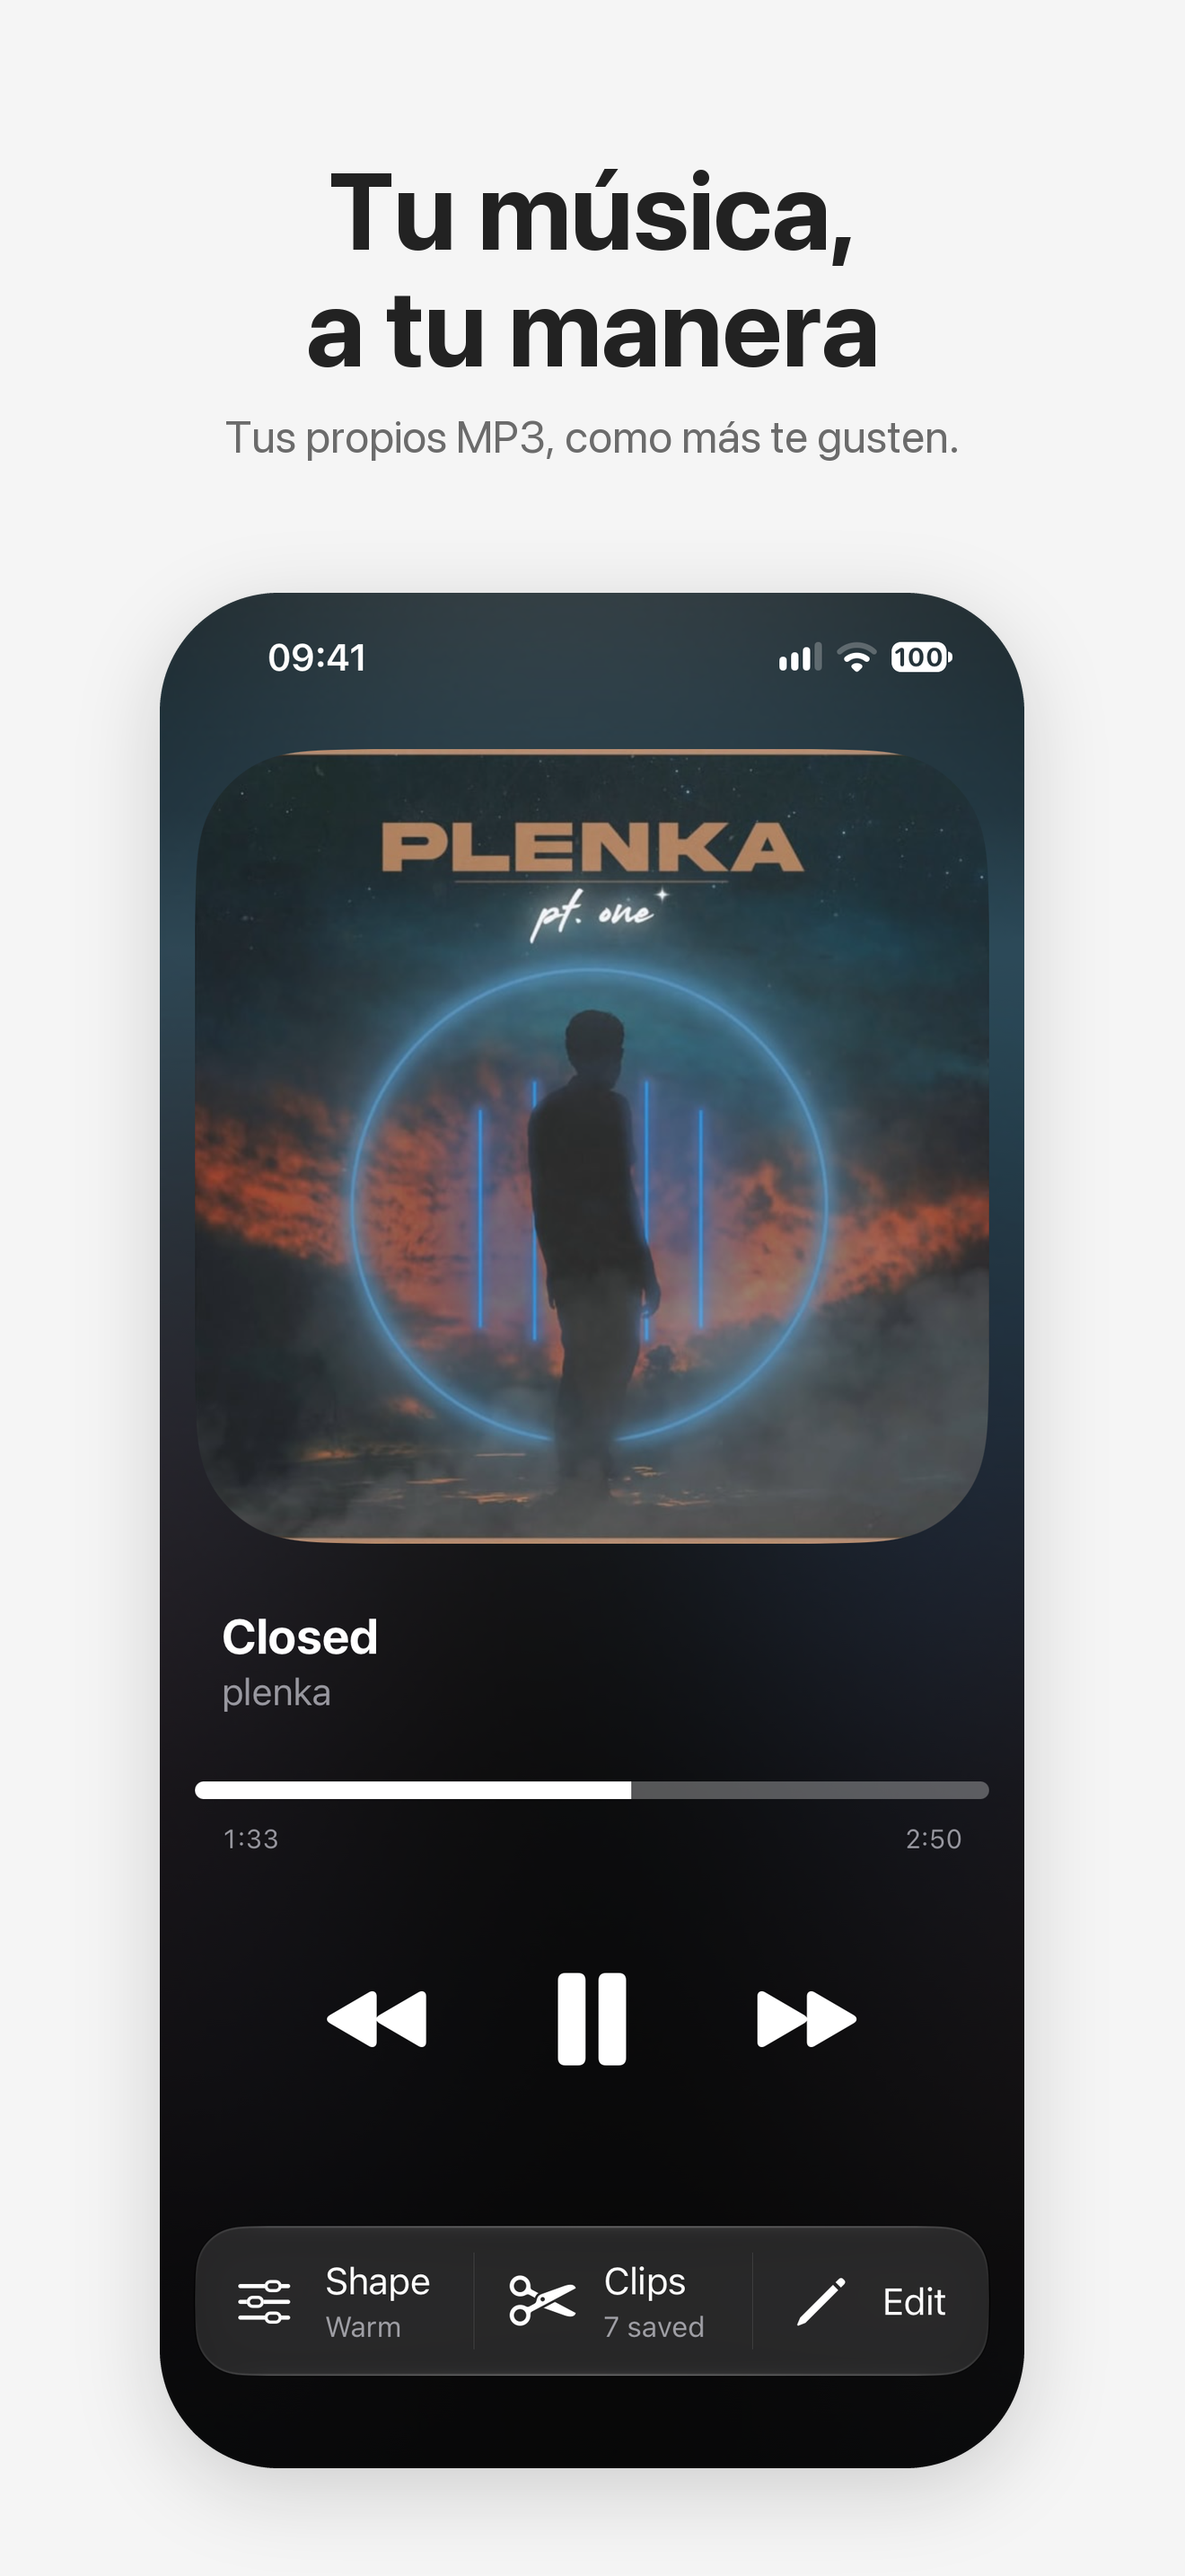
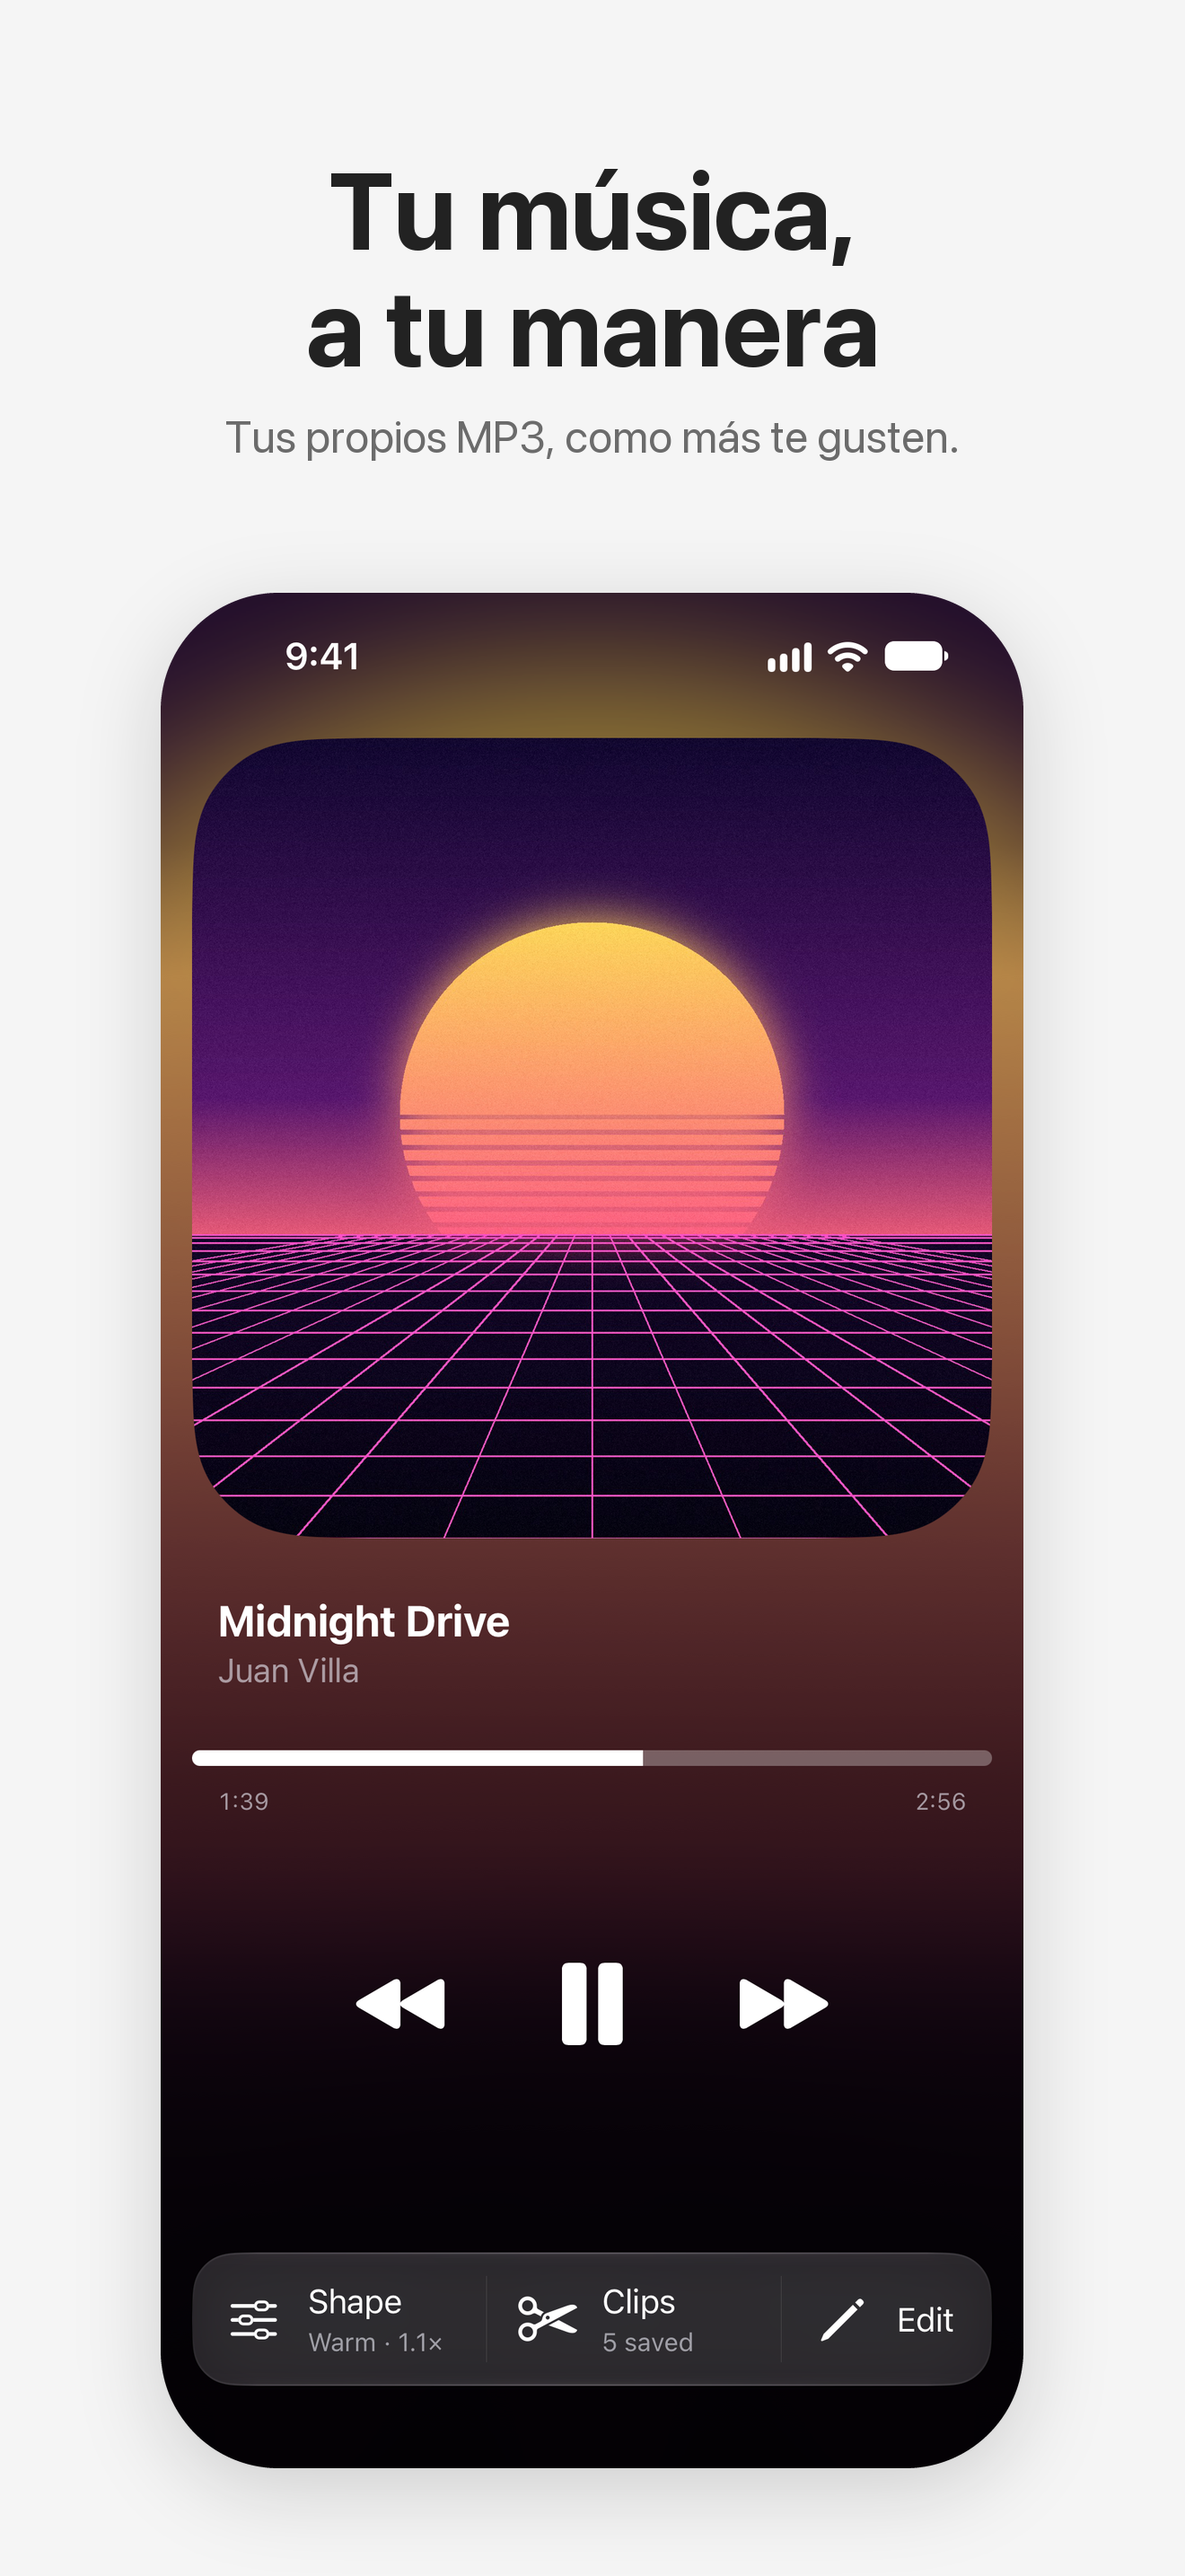
docs(store): retake the screenshots with original music and artwork

diff --git a/store/README.md b/store/README.md
@@ -37,9 +37,12 @@ When they are:
    signal. A 6.9" device or simulator (iPhone 17 Pro Max, 1320 × 2868) is best;
    any modern iPhone works, since the screen is scaled to one fixed box.
 2. **Show only artwork you have the rights to.** Apple's marketing guidelines
-   ask for rights to all third-party content on screen. The first set shows
-   commercial album covers; the retake should use your own art or freely
-   licensed images.
+   ask for rights to all third-party content on screen. The first set showed
+   commercial album covers and was replaced (2026-10-17) by the six original
+   sounds in [`demo-audio/`](demo-audio/README.md), music and covers both
+   generated there. That set was captured on an iPhone 17 Pro Max simulator
+   against a temporary, uncommitted stand-in for the signed-in session and the
+   library — no real account was signed in to the simulator.
 3. Save them over `source/home.png`, `player.png`, `shape.png` and `clip.png`
    (or add a new entry to `copy.json` for a new screen), run the command, and
    look at every PNG before uploading.

diff --git a/docs/store-listing.md b/docs/store-listing.md
@@ -198,10 +198,9 @@ to one is a change to the other.
 
 - **The legal pages are LIVE** (2026-10-17, juanevillam.com, site `v1.0.0`):
   both URLs above answer 200.
-- Screenshots: a first set is generated in `store/screenshots/` (6.9" iPhone,
-  1320 × 2868, the one size Apple requires). **It shows commercial album
-  covers (Bad Bunny's DÁKITI with its Parental Advisory label among them) and
-  cannot be submitted** — retake the sources with artwork you have the
-  rights to, and re-run `npm run store-screenshots` — see
-  [`store/README.md`](../store/README.md).
-- The reviewer attachment (above) is not made yet.
+- Screenshots: ✅ retaken 2026-10-17 with original music and covers (see
+  [`store/demo-audio/`](../store/demo-audio/README.md)), 1320 × 2868, English
+  UI in both sets — the Spanish set shows English screens under Spanish
+  headlines.
+- The reviewer attachment is `Midnight Drive.mp3`, generated in
+  `store/demo-audio/` (made for the app from code, no samples).
